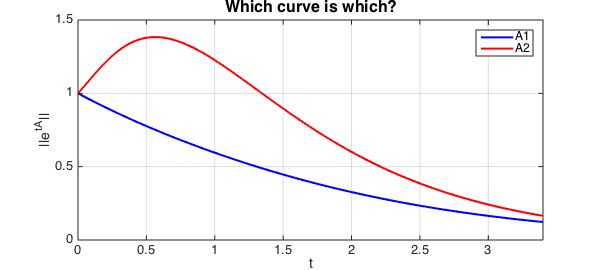
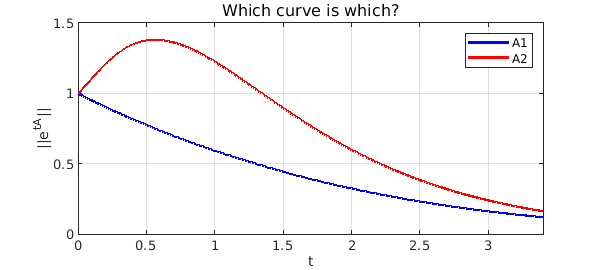
update to NonnormalQuiz

diff --git a/examples/linalg/NonnormalQuiz.html b/examples/linalg/NonnormalQuiz.html
@@ -75,8 +75,8 @@ A2 =
 
 <p>The quiz is about the behavior of solutions to the differential equation $u' = Au$, where $A$ is one of these matrices. The solution of this equation is $u(t) = e^{tA}u(0)$, where $e^{tA}$ is the exponential of the matrix $tA$, computed in MATLAB by the command <code>expm</code>.  The maximum possible value of the quotient $|u(t)|/|u(0)|$ is equal to the matrix norm of <code>expm(tA)</code>.</p>
 <p>We first present the plot, then explain what it means and how we computed it with Chebfun.</p>
-<pre class="mcode-input">e1 = chebfun(@(t) norm(expm(t*A1)),[0 3.4],'vectorize');
-e2 = chebfun(@(t) norm(expm(t*A2)),[0 3.4],'vectorize');
+<pre class="mcode-input">e1 = chebfun(@(t) norm(expm(t*A1)),[0 3.4]);
+e2 = chebfun(@(t) norm(expm(t*A2)),[0 3.4]);
 LW = 'linewidth'; FS = 'fontsize';
 plot(e1,'b',e2,'r',LW,2)
 ylim([0 1.5]), grid on, legend('A1','A2')
@@ -86,7 +86,7 @@ title('Which curve is which?',FS,16)</pre>
 
 <p><img src="img/NonnormalQuiz_01.png" class="figure" alt=""></p>
 <p>The plot shows two curves, one with a hump and one without. The book asks, "Which curve is which?", and doesn't reveal the answer, but here you can see that <code>A2</code> is the matrix with the hump.  This is surprising to some people, for one might expect the hump to correspond to <code>A1</code> since it is nondiagonalizable.  In fact, the nondiagonalizability of <code>A1</code> is less important than the large entry $5$ in the upper-right corner of <code>A2</code>.</p>
-<p>This is a natural problem for Chebfun because Chebfun is good at working with functions that don't have representations by explicit formulas. Here the function we are concerned with is <code>norm(expm(tA))</code>, a function of time <code>t</code>.  Chebfun is happy to sample that function at various values of <code>t</code> and construct a corresponding chebfun.  Since <code>norm(expm(tA))</code> will not work when <code>t</code> is a vector, the <code>'vectorize'</code> flag is included to avoid a warning message.</p>
+<p>This is a natural problem for Chebfun because Chebfun is good at working with functions that don't have representations by explicit formulas. Here the function we are concerned with is <code>norm(expm(tA))</code>, a function of time <code>t</code>.  Chebfun is happy to sample that function at various values of <code>t</code> and construct a corresponding chebfun.</p>
 <p>Once we have the chebfuns, we can do things with them. For example, here are the maximum values of the two curves and the locations where they occur:</p>
 <pre class="mcode-input">[maxnorm1, maxt1] = max(e1)
 [maxnorm2, maxt2] = max(e2)</pre>
@@ -98,7 +98,7 @@ maxt1 =
 maxnorm2 =
    1.383621941609019
 maxt2 =
-   0.564256565401320
+   0.564256565401315
 </pre>
 
 <h3 id="references">References</h3>

diff --git a/examples/linalg/img/NonnormalQuiz.html b/examples/linalg/img/NonnormalQuiz.html
@@ -18,8 +18,8 @@ A2 =
 
 We first present the plot, then explain what it means and how we computed it with Chebfun.
 
-<pre class="mcode-input">e1 = chebfun(@(t) norm(expm(t*A1)),[0 3.4],'vectorize');
-e2 = chebfun(@(t) norm(expm(t*A2)),[0 3.4],'vectorize');
+<pre class="mcode-input">e1 = chebfun(@(t) norm(expm(t*A1)),[0 3.4]);
+e2 = chebfun(@(t) norm(expm(t*A2)),[0 3.4]);
 LW = 'linewidth'; FS = 'fontsize';
 plot(e1,'b',e2,'r',LW,2)
 ylim([0 1.5]), grid on, legend('A1','A2')
@@ -29,7 +29,7 @@ title('Which curve is which?',FS,16)</pre><img src="img/NonnormalQuiz_01.png" cl
 
 The plot shows two curves, one with a hump and one without. The book asks, "Which curve is which?", and doesn't reveal the answer, but here you can see that `A2` is the matrix with the hump.  This is surprising to some people, for one might expect the hump to correspond to `A1` since it is nondiagonalizable.  In fact, the nondiagonalizability of `A1` is less important than the large entry $5$ in the upper-right corner of `A2`.
 
-This is a natural problem for Chebfun because Chebfun is good at working with functions that don't have representations by explicit formulas. Here the function we are concerned with is `norm(expm(tA))`, a function of time `t`.  Chebfun is happy to sample that function at various values of `t` and construct a corresponding chebfun.  Since `norm(expm(tA))` will not work when `t` is a vector, the `'vectorize'` flag is included to avoid a warning message.
+This is a natural problem for Chebfun because Chebfun is good at working with functions that don't have representations by explicit formulas. Here the function we are concerned with is `norm(expm(tA))`, a function of time `t`.  Chebfun is happy to sample that function at various values of `t` and construct a corresponding chebfun.
 
 Once we have the chebfuns, we can do things with them. For example, here are the maximum values of the two curves and the locations where they occur:
 
@@ -41,7 +41,7 @@ maxt1 =
 maxnorm2 =
    1.383621941609019
 maxt2 =
-   0.564256565401320
+   0.564256565401315
 </pre>
 
 ## References

diff --git a/examples/linalg/index.html b/examples/linalg/index.html
@@ -61,7 +61,7 @@
 <div class="row main noleftpadding"><div class="col-sm-4 noleftpadding">
     <ul class='sidenav'>
         <li><a href="/examples/applics/index.html">Applications<span>6</span></a></li>
-        <li><a href="/examples/approx/index.html">Approximation (1D)<span>43</span></a></li>
+        <li><a href="/examples/approx/index.html">Approximation (1D)<span>44</span></a></li>
         <li><a href="/examples/approx2/index.html">Approximation (2D)<span>16</span></a></li>
         <li><a href="/examples/approx3/index.html">Approximation (3D)<span>10</span></a></li>
         <li><a href="/examples/calc/index.html">Calculus<span>6</span></a></li>

diff --git a/index.html b/index.html
@@ -269,5 +269,5 @@ plot(minx(1),minx(2),'.w')
     <script type="text/javascript" src="/js/config.js"></script>
     <script type="text/javascript" src="/js/jquery.flexslider-min.js"></script>
   </body>
-<!-- Compiled on Wednesday, 14 April 2021 at 11:12. -->
+<!-- Compiled on Wednesday, 14 April 2021 at 11:30. -->
 </html>

diff --git a/examples/linalg/NonnormalQuiz.m b/examples/linalg/NonnormalQuiz.m
@@ -22,8 +22,8 @@ A1 = [-1 1; 0 -1],  A2 = [-1 5; 0 -2]
 %%
 % We first present the plot, then explain what it means and how we computed it
 % with Chebfun.
-e1 = chebfun(@(t) norm(expm(t*A1)),[0 3.4],'vectorize');
-e2 = chebfun(@(t) norm(expm(t*A2)),[0 3.4],'vectorize');
+e1 = chebfun(@(t) norm(expm(t*A1)),[0 3.4]);
+e2 = chebfun(@(t) norm(expm(t*A2)),[0 3.4]);
 LW = 'linewidth'; FS = 'fontsize';
 plot(e1,'b',e2,'r',LW,2)
 ylim([0 1.5]), grid on, legend('A1','A2')
@@ -44,9 +44,7 @@ title('Which curve is which?',FS,16)
 % with functions that don't have representations by explicit formulas.
 % Here the function we are concerned with is `norm(expm(tA))`, a function of
 % time `t`.  Chebfun is happy to sample that function at various values of `t`
-% and construct a corresponding chebfun.  Since `norm(expm(tA))` will not work
-% when `t` is a vector, the `'vectorize'` flag is included to avoid a warning
-% message.
+% and construct a corresponding chebfun.
 
 %%
 % Once we have the chebfuns, we can do things with them. For example, here are
